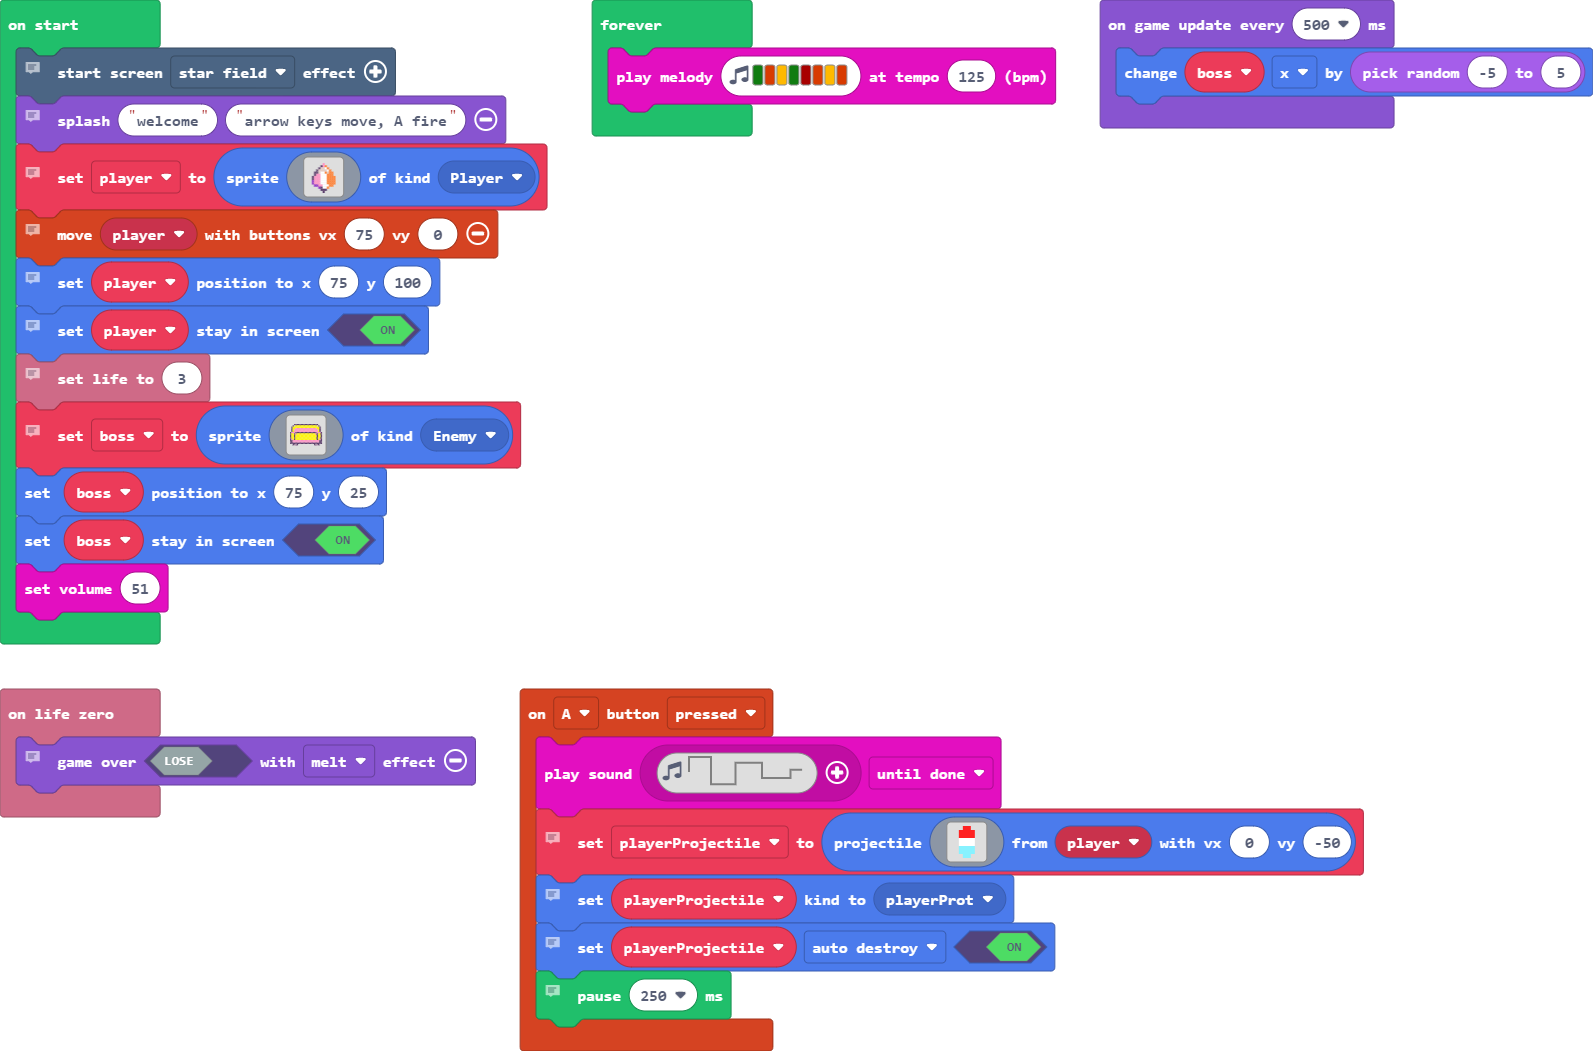
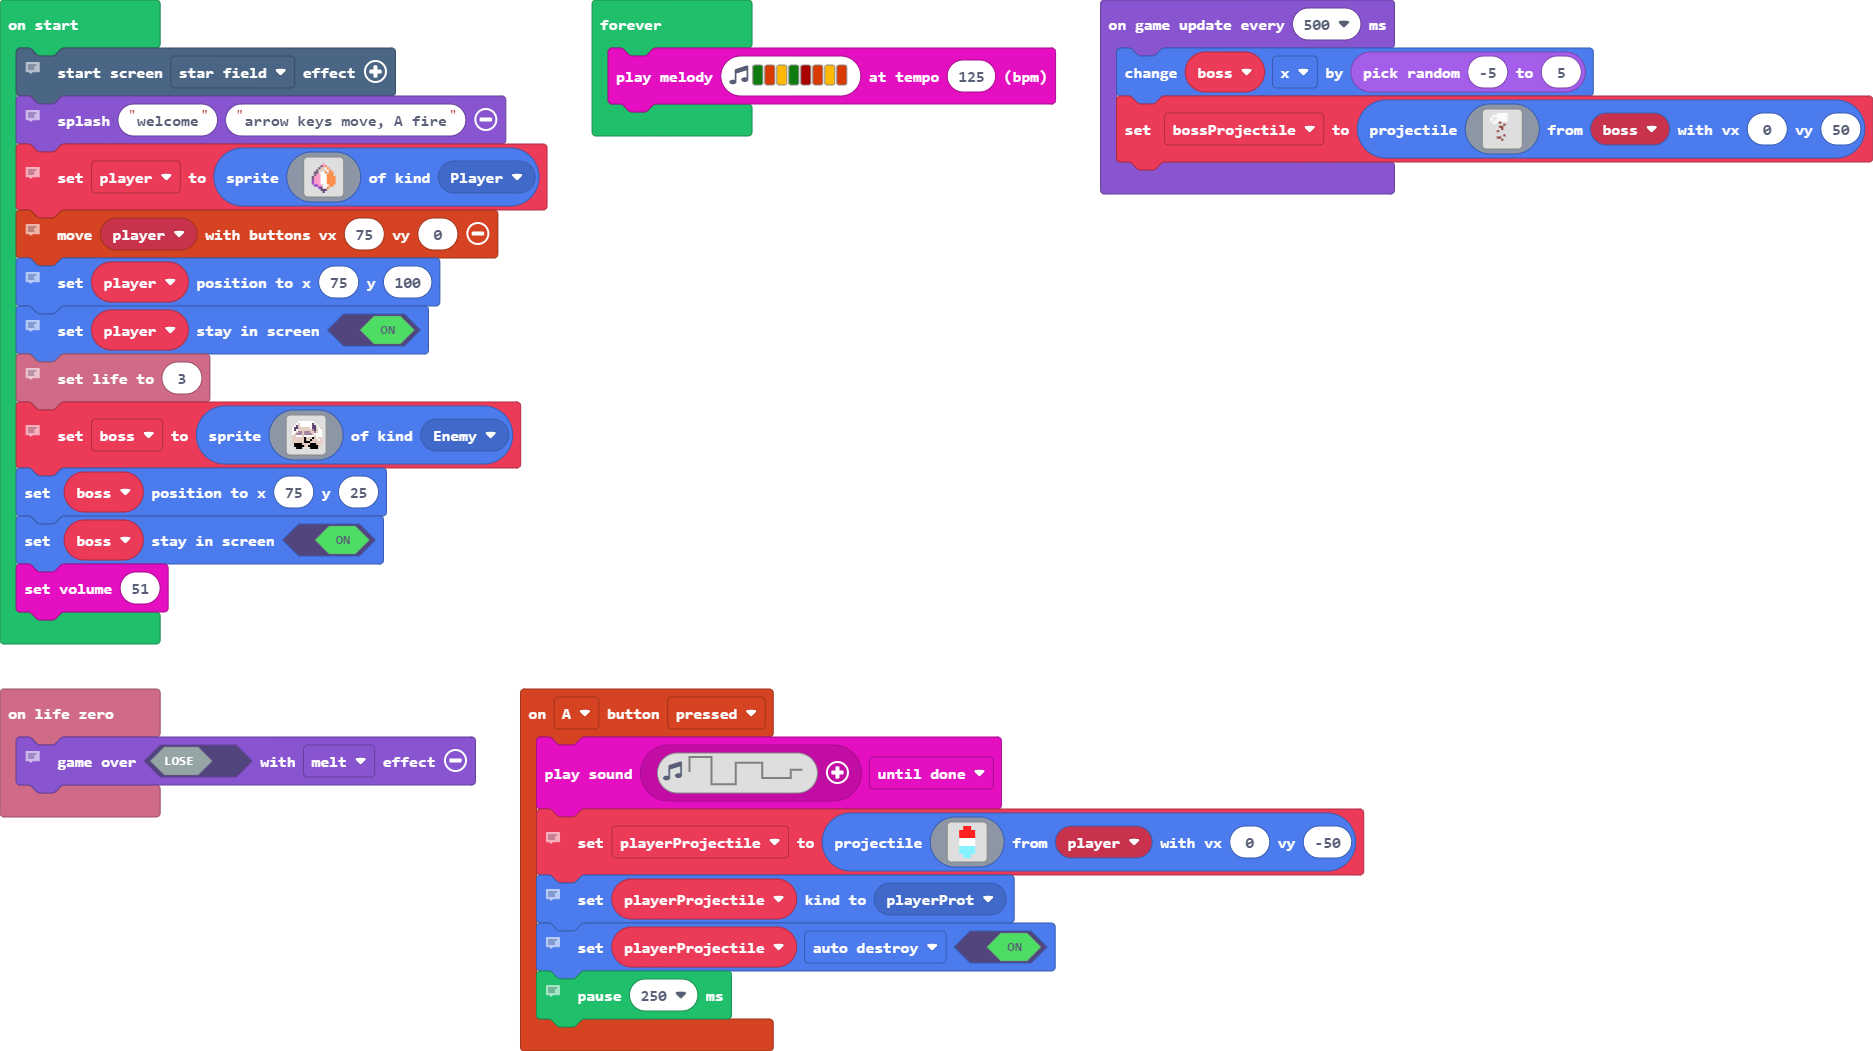
Update pxt.json, main.blocks, main.ts

Changed region(s): [[0.0, 0.0, 1.0, 0.6089], [0.0, 0.6394, 0.8613, 1.0]]

diff --git a/main.ts b/main.ts
@@ -16,6 +16,7 @@ info.onLifeZero(function () {
     // game over when life hits 0
     game.over(false, effects.melt)
 })
+let bossProjectile: Sprite = null
 let playerProjectile: Sprite = null
 let player: Sprite = null
 // making stars
@@ -42,5 +43,5 @@ forever(function () {
 })
 game.onUpdateInterval(500, function () {
     boss.x += randint(-5, 5)
-    let bossProjectile = sprites.createProjectileFromSprite(assets.image`BOSSPROJECTILE`, boss, 0, 50)
+    bossProjectile = sprites.createProjectileFromSprite(assets.image`BOSSPROJECTILE`, boss, 0, 50)
 })
